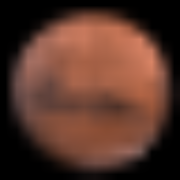
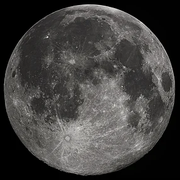
aa

diff --git a/src/app/layout.tsx b/src/app/layout.tsx
@@ -18,8 +18,11 @@ export const metadata: Metadata = {
     "Resume of Aknur Zhakanova, geology student at Nazarbayev University",
   robots: "index, follow",
   icons: {
-    icon: "/favicon.ico",
-    apple: "/apple-icon.png",
+    icon: [
+      { url: `${basePath}/icon.png`, type: "image/png", sizes: "32x32" },
+      { url: `${basePath}/favicon.ico`, sizes: "any" },
+    ],
+    apple: `${basePath}/apple-icon.png`,
   },
 };
 
@@ -34,7 +37,6 @@ export default function RootLayout({
         <meta name="viewport" content="width=device-width, initial-scale=1" />
         <meta httpEquiv="Content-Language" content="en" />
         <meta name="theme-color" content="#ffffff" />
-        <link rel="apple-touch-icon" href={`${basePath}/apple-icon.png`} />
       </head>
       <body>
         {children}
